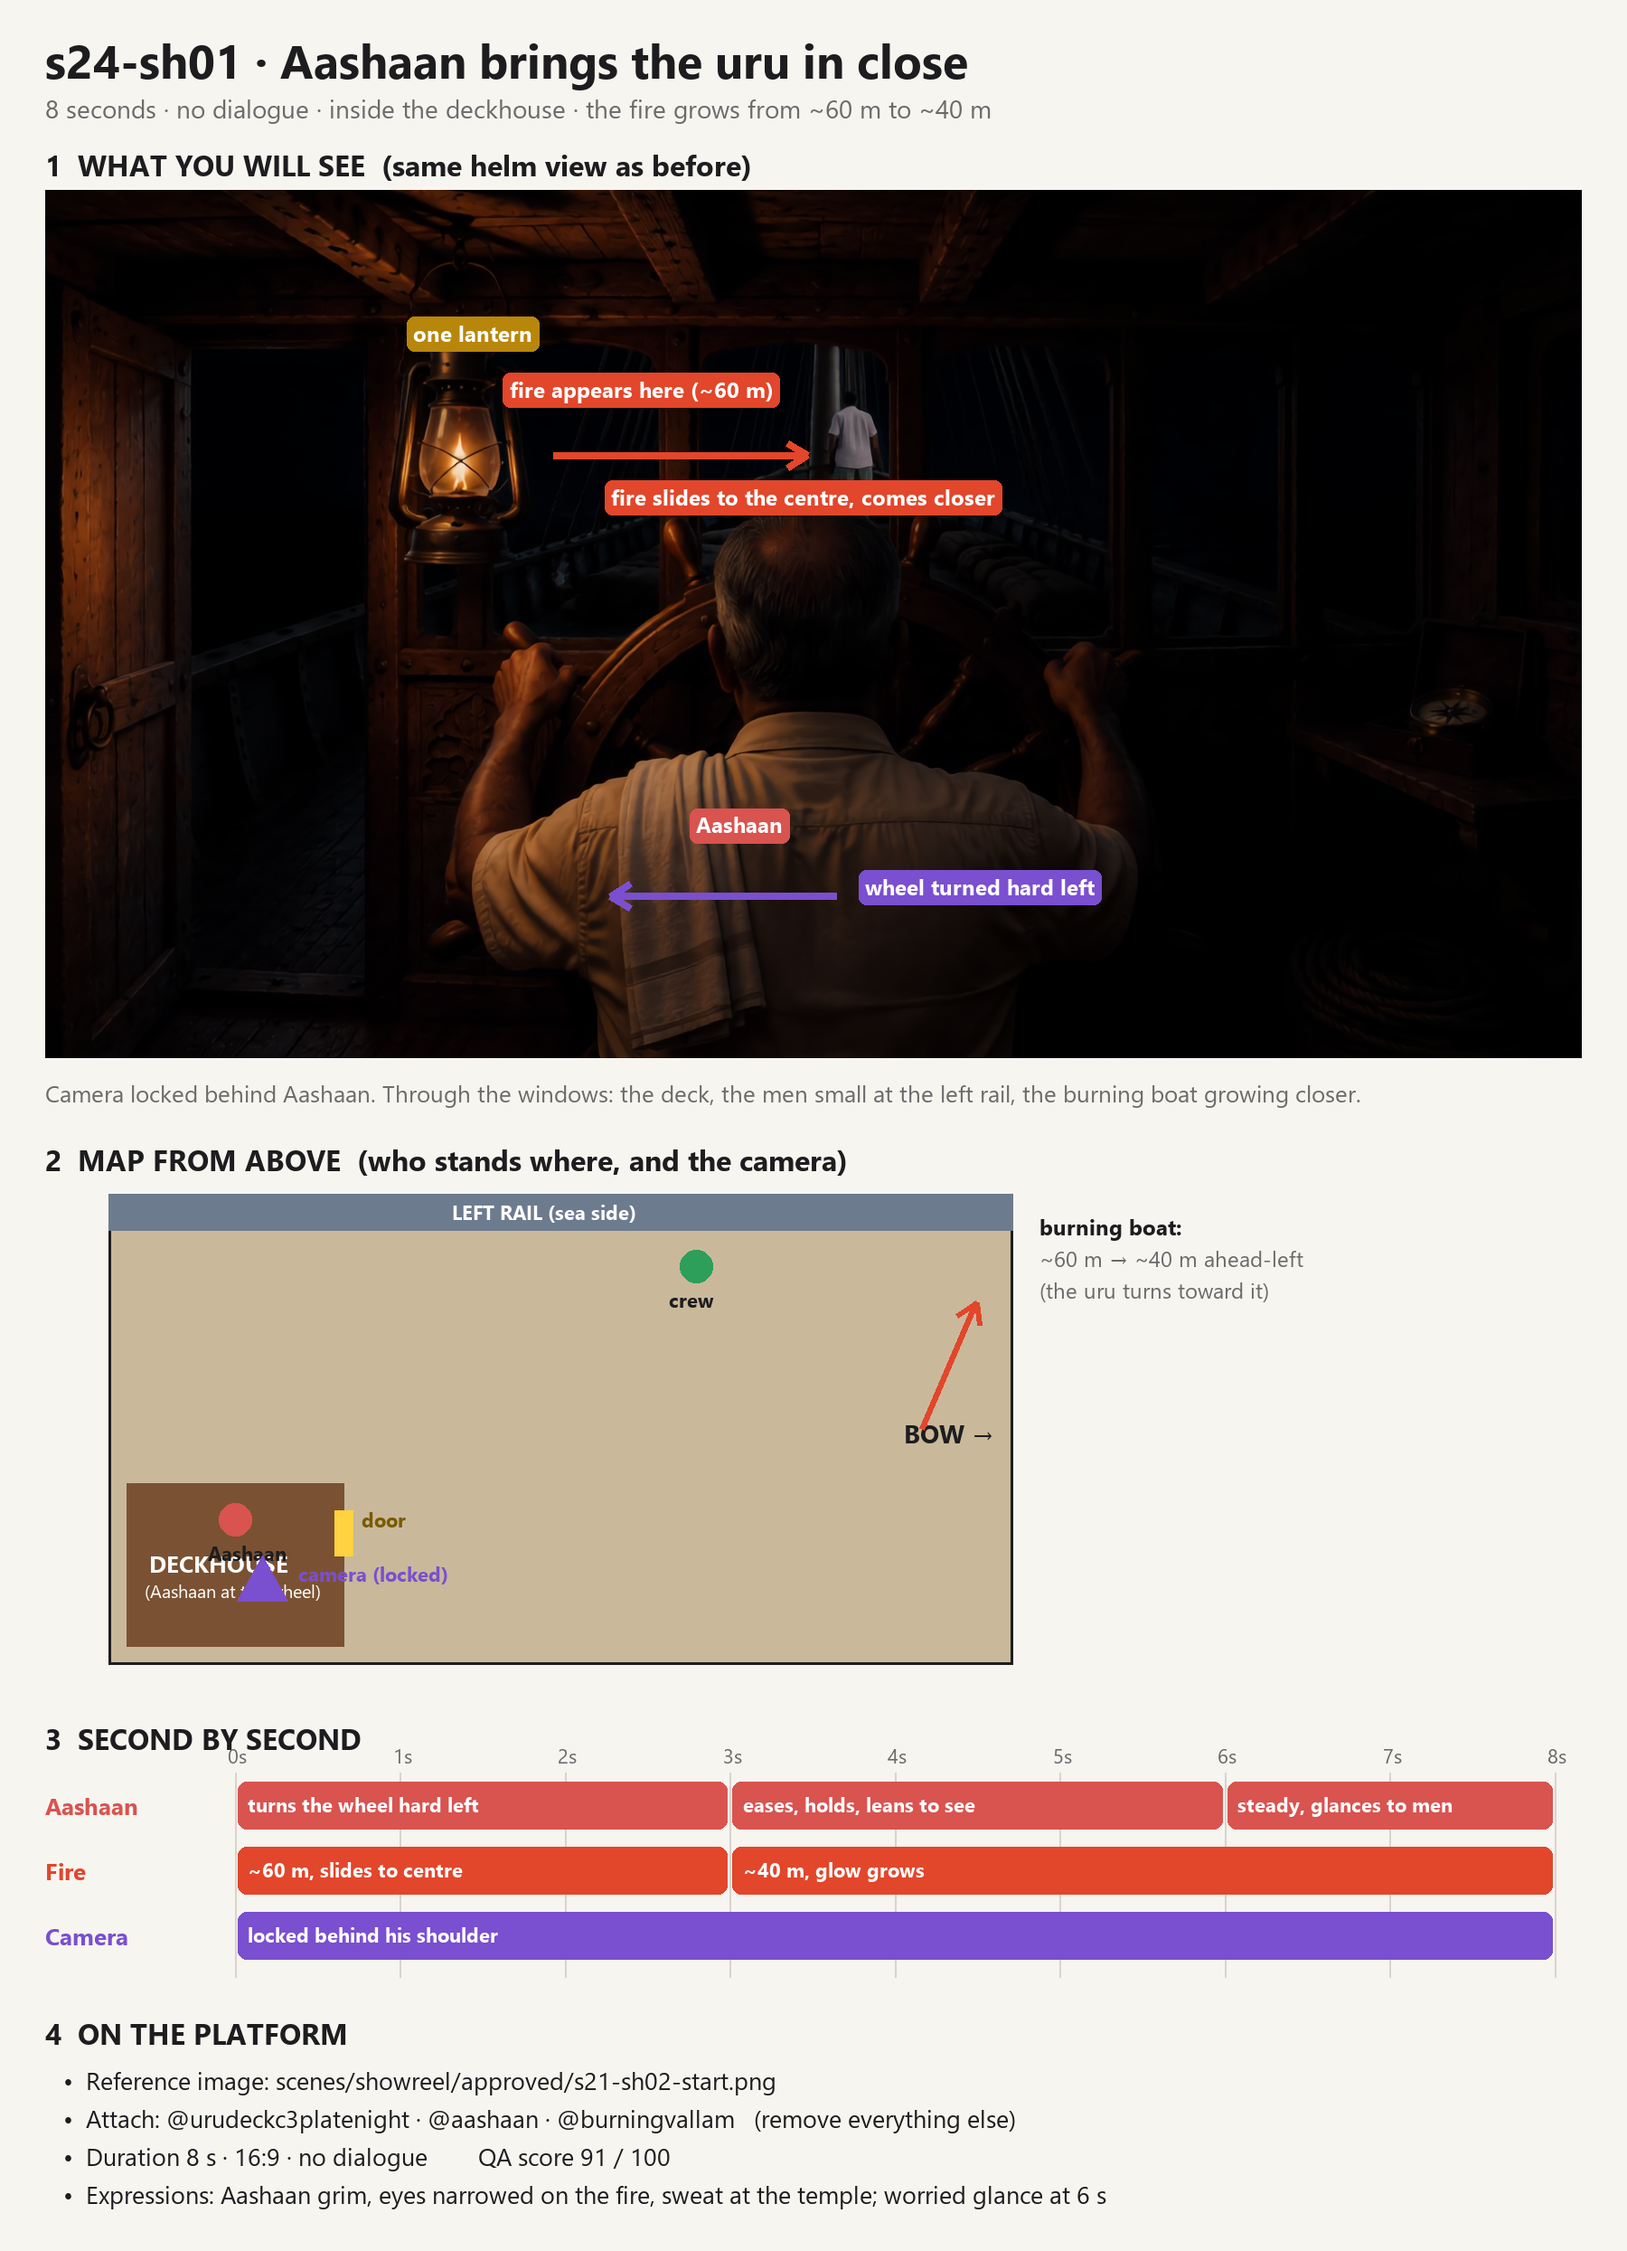
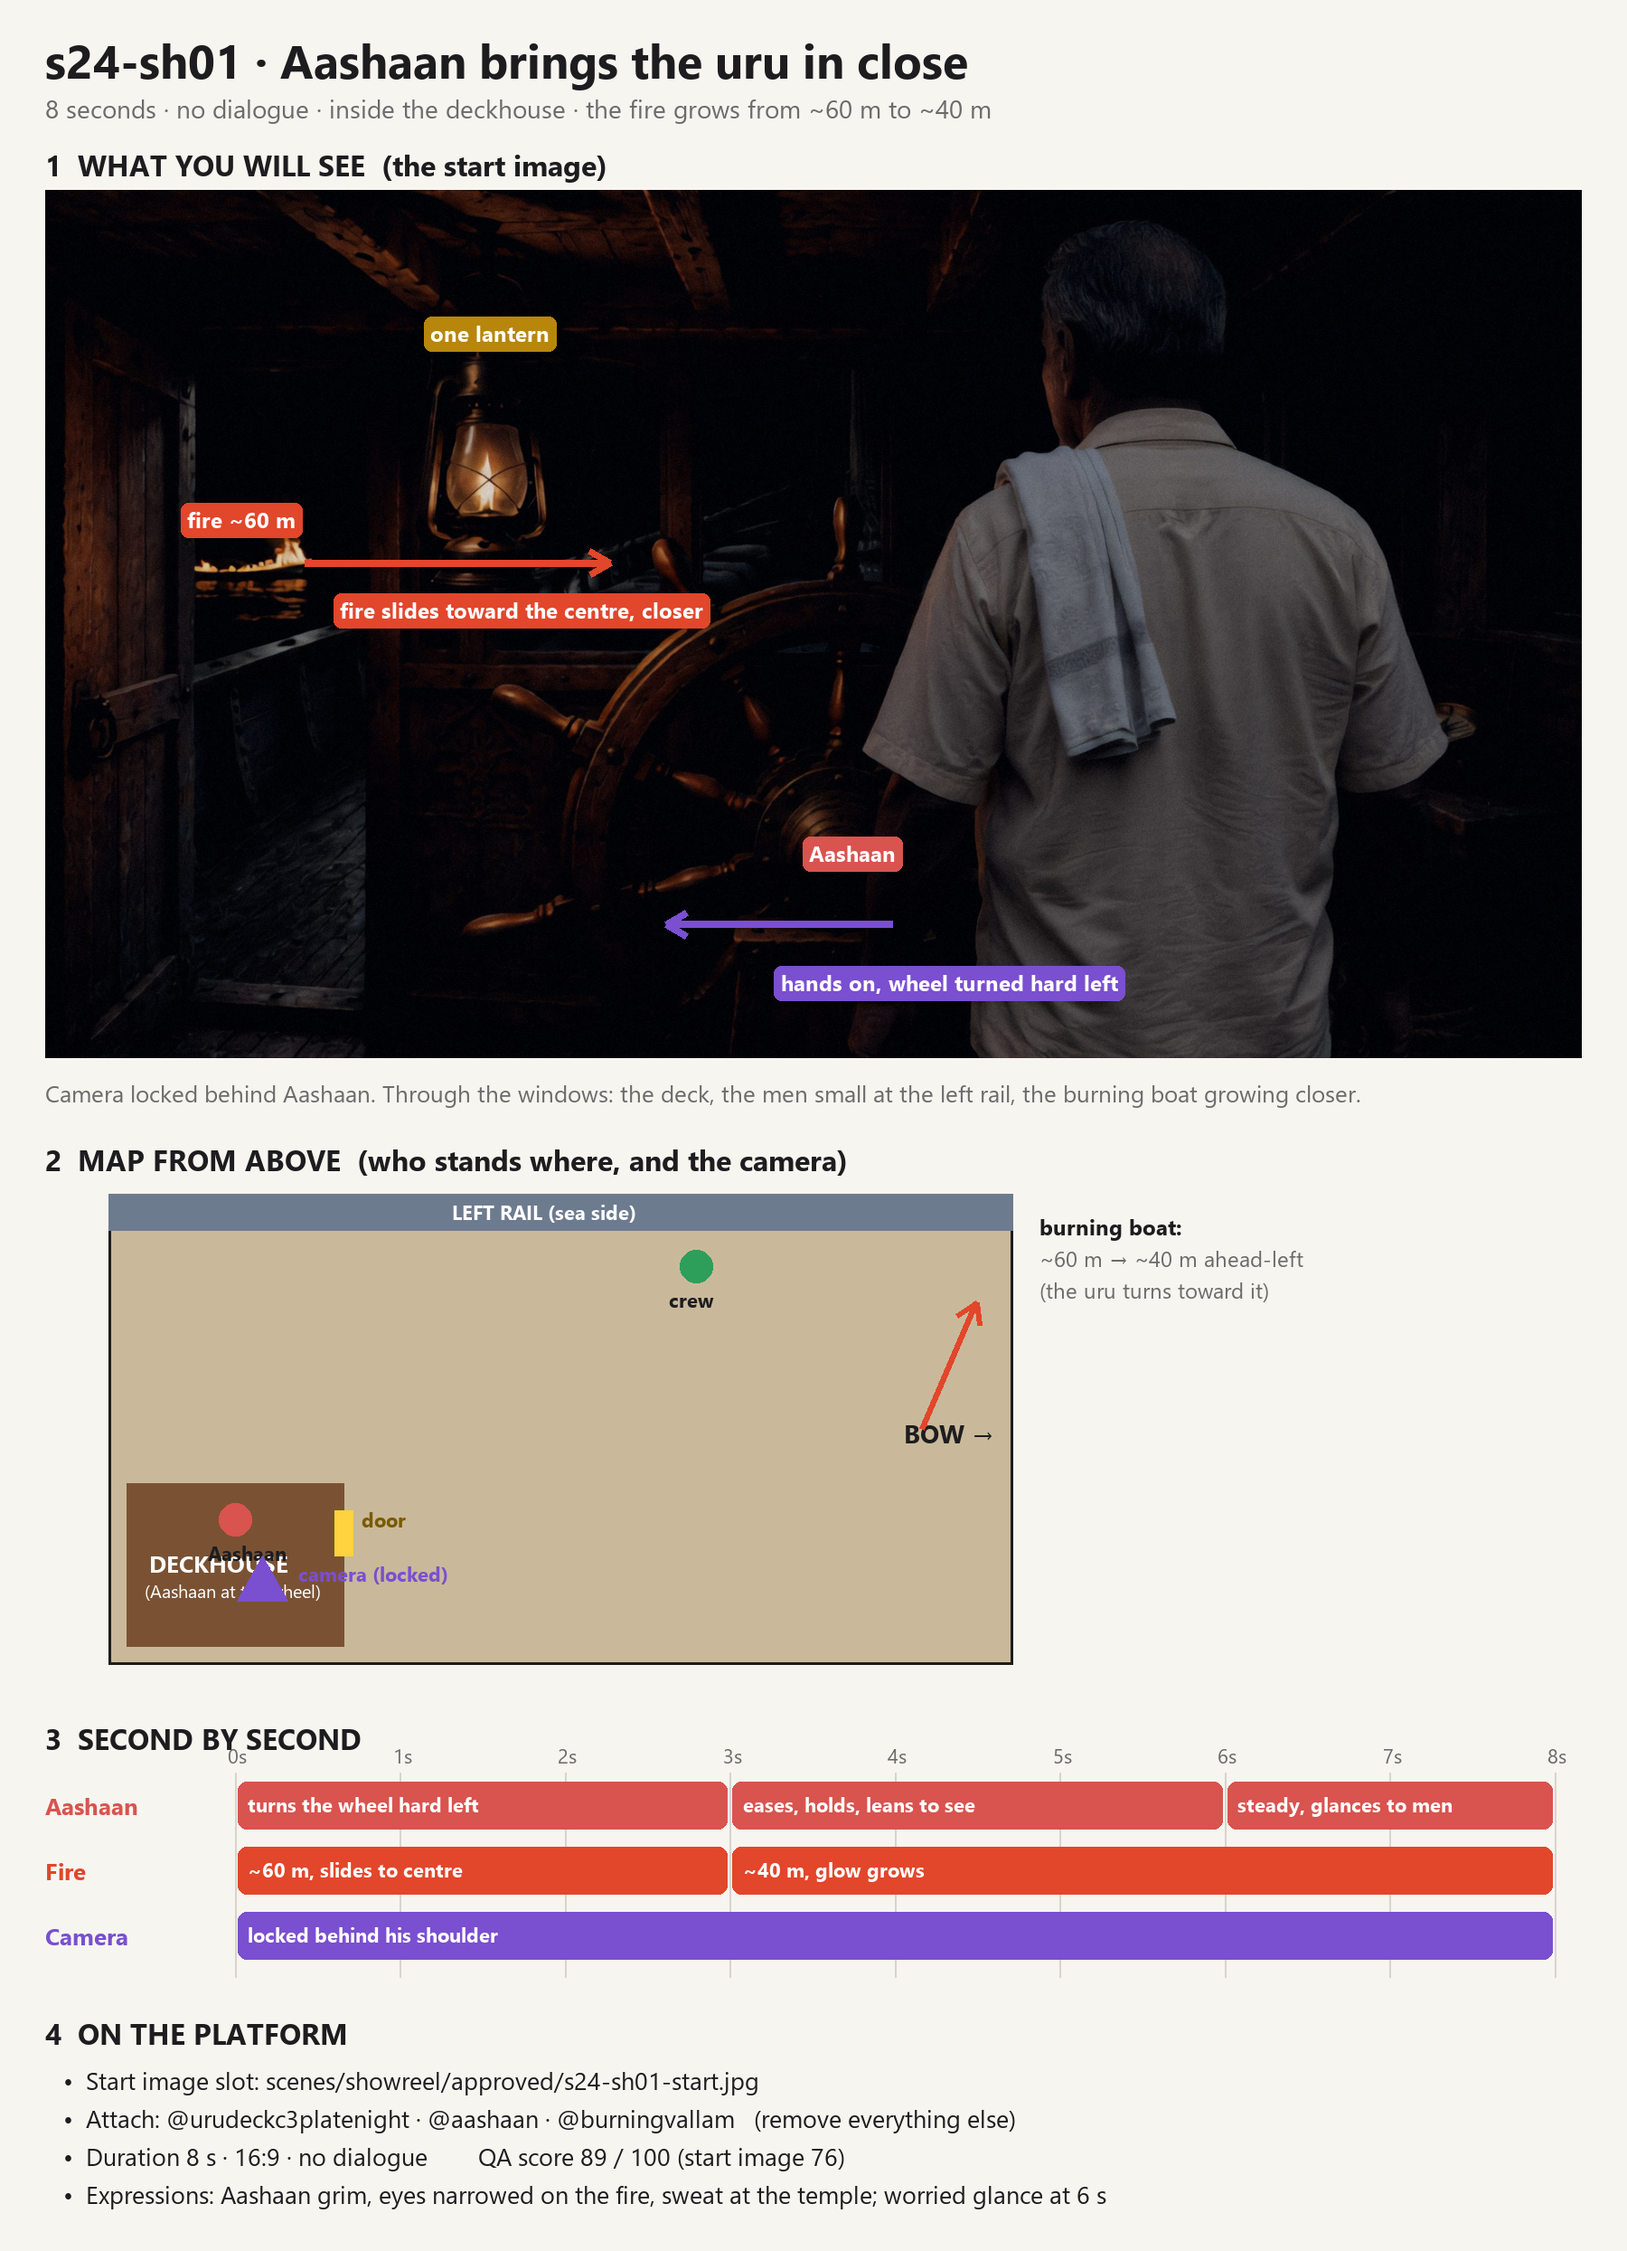
Ranjith: shot: s24-sh01 v2 (new start frame; Aashaan steps to the wheel)

diff --git a/scenes/showreel/s24-sh01.md b/scenes/showreel/s24-sh01.md
@@ -1,31 +1,31 @@
-# Shot s24-sh01 · SB032 Aashaan brings the uru in close (8 s, silent) — v1
+# Shot s24-sh01 · SB032 Aashaan brings the uru in close (8 s, silent) — v2
 Status: **ready, proposal**.
 Storyboard: SB032 · source scene 24 · emotion "Courage" (no tag, silent) · clear sheet `storyboards/s24-sh01-clear.png`
 Created by: Ranjith, 2026-11-10
 Camera position: urudeck-c3-helm-night (same as s21-sh02)
-References: reference image = scenes/showreel/approved/s21-sh02-start.png · @urudeckc3platenight (full) · @aashaan (full) · @burningvallam (background, ~60→40 m)
+References: start image = scenes/showreel/approved/s24-sh01-start.jpg (required) · @urudeckc3platenight (full) · @aashaan (full) · @burningvallam (background, ~60→40 m)
 Reference sweep (left out, and why): Crew at the rail: small dark silhouettes through the windows, faces not readable; sheets left off (they are attached in s24-sh02). @selvan: too small at this distance.
 Follows: s23-sh08 (Antony frees his wrist). Next: s24-sh02 (the leap).
 
 ## Prompt
 ```
 SCENE
-Deep night, 1998, on the open sea, inside the deckhouse of the big wooden cargo uru, behind the wheel. One continuous shot. Aashaan steers the uru in toward the burning fishing vallam: through the front windows the fire grows from a burning boat about sixty metres ahead to about forty metres, off to the left, and he eases the wheel to slow the uru and bring it in close. Nobody speaks.
+Deep night, 1998, on the open sea, inside the deckhouse of the big wooden cargo uru, behind the wheel. One continuous shot. Aashaan, who has been standing at the side of the wheelhouse watching the fire, steps to the wheel and steers the uru in toward the burning fishing vallam: through the front windows the fire grows from a burning boat about sixty metres ahead to about forty metres, off to the left, and he eases the wheel to slow the uru and bring it in close. Nobody speaks.
 
 ACTIVE REFERENCES
-Reference image (0.0s–8.0s): the earlier frame from this same spot (s21-sh02 start): the same wheel, lantern, door, windows and Aashaan from behind.
+Start image (0.0s): the exact first frame: s24-sh01-start (Aashaan from behind at the wheel, the lantern at the upper left, the door at the left with the burning boat seen through it). Keep its real, grainy, dark film look the whole shot.
 @urudeckc3platenight (0.0s–8.0s, full): inside the deckhouse behind the wheel exactly as in the reference: the big spoked wooden wheel, the hurricane lantern hanging from the beam at the upper left, the open door at the left, the front windows looking forward onto the dark deck, the mast and the bow, the brass compass on the shelf at the right. 100% matches the reference.
 @aashaan (0.0s–8.0s, full): Aashaan, about 60, stocky, grey hair combed back, grey moustache, cream half-sleeve shirt over a white cotton vest, a white towel over his LEFT shoulder, white mundu; seen from behind and a little to his right, his face in partial profile. 100% matches the reference.
 @burningvallam (0.0s–8.0s, background only, through the left and centre windows): the same burning boat, now close: about sixty metres ahead at the start, about forty metres by the end, off the uru's left bow, flames and smoke leaning right, an orange reflection on the black water; nobody on board. 100% matches the reference.
 
 CONTINUITY (carried over from the previous shots)
-The same night. Since Antony's first shout Aashaan has kept the uru heading for the fire, ahead and to the left; now it is close. On the deck forward of the deckhouse, beyond the windows at the left, the crew stand at the left-hand rail as small dark figures against the fire glow, about eight to twelve metres from the camera. One lantern only, hanging inside at the upper left. Same clothes on Aashaan.
+The same night. In the last shots nobody was at the wheel: Aashaan had left it to stand at the side of the wheelhouse and look at the fire. The uru has drifted on toward the fire, ahead and to the left; now it is close. On the deck forward of the deckhouse, beyond the windows at the left, the crew stand at the left-hand rail as small dark figures against the fire glow, about eight to twelve metres from the camera. One lantern only, hanging inside at the upper left. Same clothes on Aashaan.
 
 THE HELM (0.0s–8.0s)
 Exactly the reference view: from just behind Aashaan's right shoulder at standing height, looking forward over the wheel and out through the front windows. Aashaan fills the lower centre, his hands on the spokes. Through the left and centre windows: the dark deck, the mast, the rail, the small dark figures at the left rail, and beyond them the burning boat on the water. No lettering.
 
 FIRST FRAME
-Aashaan from behind at the wheel, both hands on the spokes; through the left window the burning boat about sixty metres off, the men small at the rail.
+The start image exactly: Aashaan standing at the right of the wheel, not yet holding it.
 
 FORMAT MODE
 One continuous shot; the camera does not cut on its own. The video runs the full 8 seconds.
@@ -37,7 +37,7 @@ CAMERA
 Locked-off at his shoulder height, rising and falling gently with the swell. It does not move.
 
 ACTION
-0.0s to 3.0s: Aashaan turns the wheel hard to the left, hand over hand, spoke by spoke, his shoulders working, weight on his back foot; the bow swings and the fire slides toward the centre window.
+0.0s to 3.0s: Aashaan steps in behind the wheel from its right side, grips the handles and turns it hard to the left, hand over hand, his shoulders working, weight on his back foot; through the door and the left window the fire slides toward the centre.
 3.0s to 6.0s: He eases the wheel back a quarter turn and holds it, leaning forward to see; the fire comes closer in the window, about forty metres off, its glow growing on the deck and the men at the rail.
 6.0s to 8.0s: He holds the wheel steady with both hands, breathing hard, his head turning a little toward the men at the rail; the lantern sways.
 
@@ -52,7 +52,7 @@ PHYSICS
 The wheel turns in its frame around its centre only; the spokes pass under his hands; the deckhouse sways with the turn; the lantern swings on its hook.
 
 LIGHTING
-Dark: the one lantern at the upper left lights the wheel, his shoulders and the planks warm; through the windows the fire throws a growing orange glow on the deck, the men and his face; deep shadows. No extra light, no plastic skin.
+Exactly the start image's light and grain: dark; the one lantern at the upper left lights the wheel, his shoulders and the planks; through the door and windows a growing orange fire glow shows the dark deck and the small figures of the men at the rail; deep shadows. No extra light, no gloss, no plastic skin, never an illustration.
 
 AUDIO
 Sound effects only — natural on-location sound, the soundtrack carries no music. No music at all: no score, no background music, no song, no humming, and no cinematic sound design: no riser, no whoosh, no swell, no rumble, no transition sound. Ambient at a steady level that does not build. No spoken words and no voices.
@@ -72,6 +72,8 @@ Aashaan alone inside, seen from behind and a little to the side, at the wheel; o
 ## Generation results
 
 ## History
+- v2b (2026-11-10): Ranjith: Aashaan was not at the wheel in the s23-sh06 take, so here he steps to the wheel from its side (matches the start image, where he stands beside it).
+- v2 (2026-11-10): starts from the new photographic helm frame `approved/s24-sh01-start.jpg` (Kling, re-photographed and graded; QA 76) instead of the illustrated s21-sh02 start; hands go to the wheel at once; the windows show the deck and the men by the fire glow.
 - v1 (2026-11-10): Ranjith approved adding it: the uru closes in on screen (60 m → 40 m) so the leap and the rescue (SB033) make sense; the distance sheet gets the row.
 
 ## Continuity check (from the previous frames)
